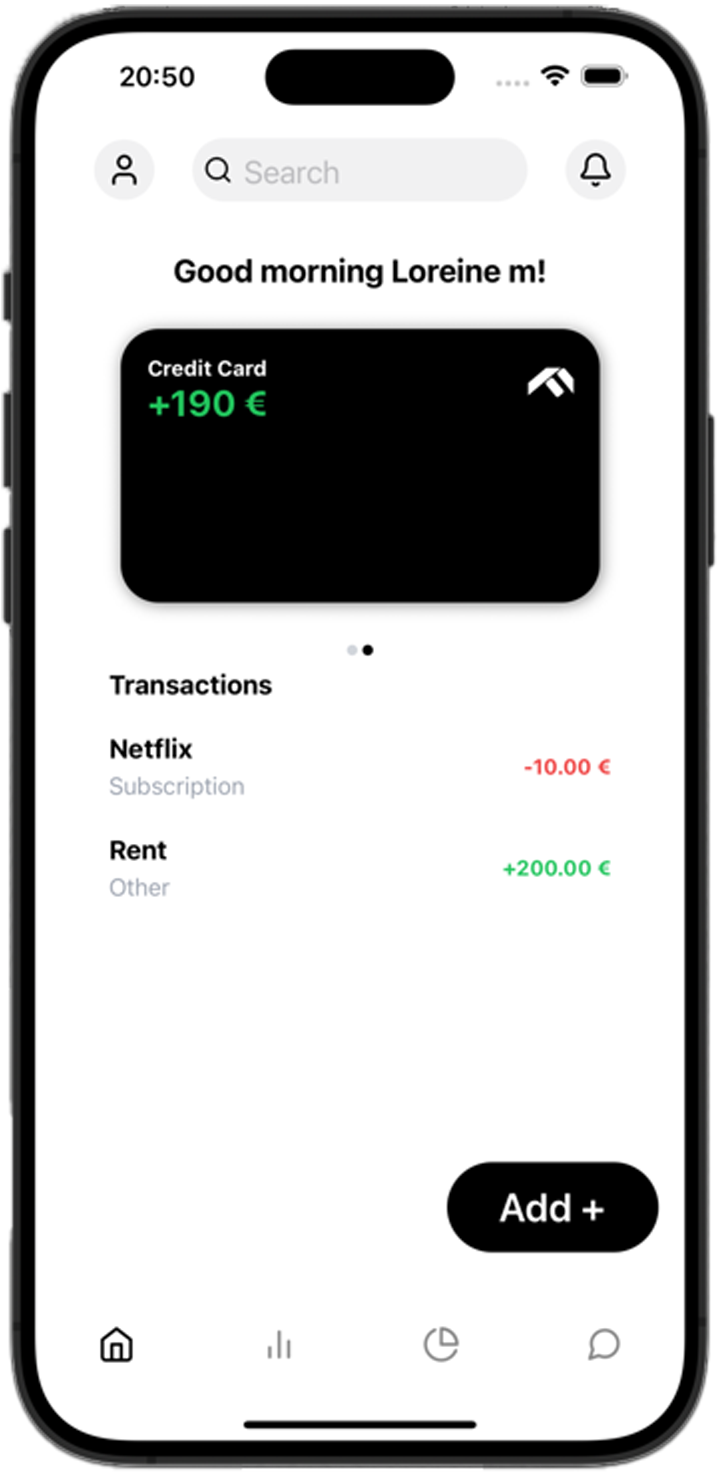
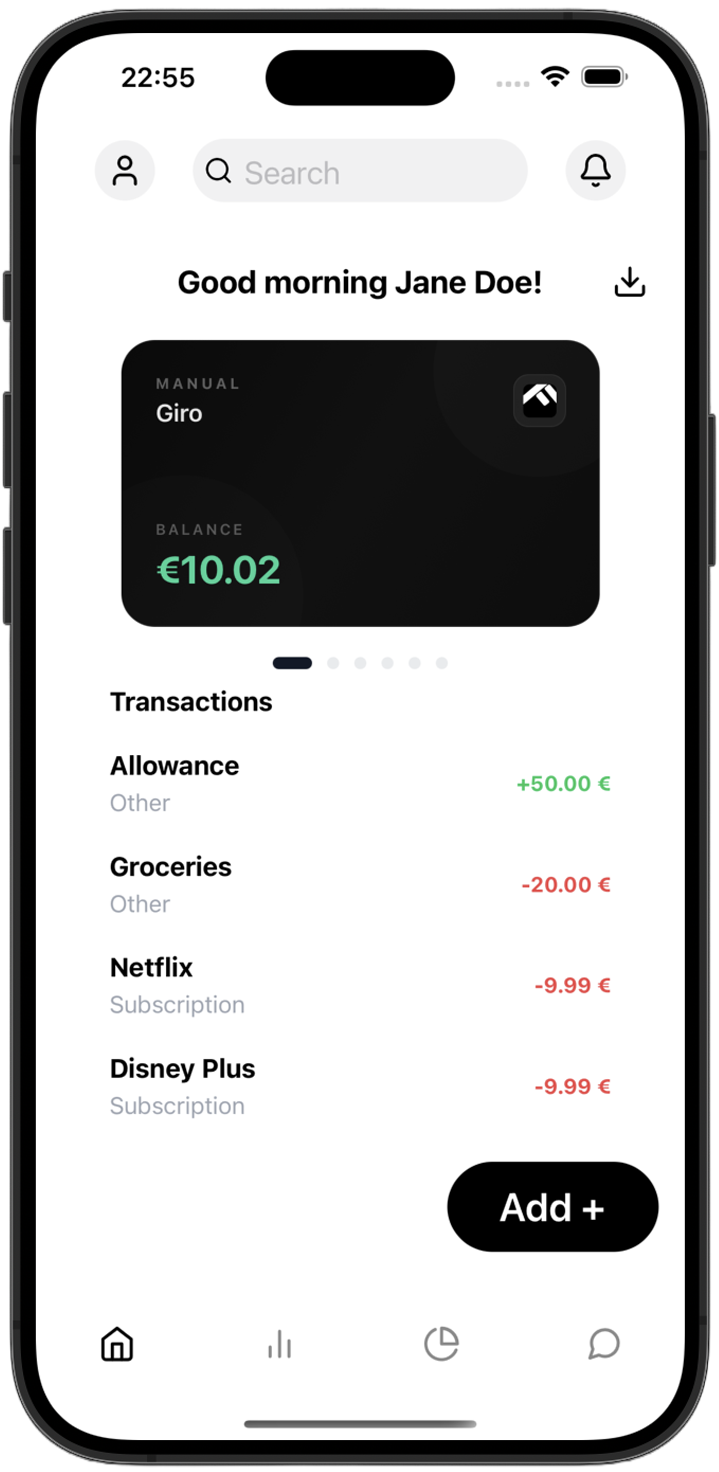
fix: gefühlt alles: website, export funktion, savingsnamen und initial amount von savings

diff --git a/mobile/components/DashBoard.tsx b/mobile/components/DashBoard.tsx
@@ -18,7 +18,10 @@ import AddAccountModal from "@/components/modals/AddAccountModal";
 import AddTransactionModal from "@/components/modals/AddTransactionModal";
 import AddSubscriptionModal from "@/components/modals/AddSubscriptionModal";
 import { useAuthStore } from "@/utils/authStore";
-import { getAccounts, getTransactions } from "@/utils/db/finance/finance";
+import { getAccounts, getTransactions, exportTransactionsToCSV } from "@/utils/db/finance/finance";
+import * as FileSystem from "expo-file-system";
+import * as Sharing from "expo-sharing";
+import { Download } from "lucide-react-native";
 import { getSubscriptions } from "@/utils/db/finance/subscriptions/subscriptions";
 import { Skeleton } from "@/components/ui/skeleton";
 import { getData } from "@/utils/db/connect_accounts/connectAccounts";
@@ -37,6 +40,7 @@ export default function DashBoard() {
   const [accountIndex, setAccountIndex] = useState(0);
   const [state, setState] = useState<STATE>(STATE.DEFAULT);
   const [expanded, setExpanded] = useState(false);
+  const [isExporting, setIsExporting] = useState(false);
 
   const [accounts, setAccounts] = useState<any[]>([]);
 
@@ -311,6 +315,26 @@ export default function DashBoard() {
 
   const [refreshing, setRefreshing] = useState(false);
 
+  const exportToCSV = async () => {
+    if (!session?.access_token) return;
+    try {
+      setIsExporting(true);
+      const csvData = await exportTransactionsToCSV(session.access_token, session.refresh_token);
+      
+      const fileUri = FileSystem.documentDirectory + "transactions_export.csv";
+      await FileSystem.writeAsStringAsync(fileUri, csvData, { encoding: FileSystem.EncodingType.UTF8 });
+      
+      const canShare = await Sharing.isAvailableAsync();
+      if (canShare) {
+        await Sharing.shareAsync(fileUri, { mimeType: "text/csv", dialogTitle: "Export Transactions" });
+      }
+    } catch (e: any) {
+      console.error("Export failed:", e);
+    } finally {
+      setIsExporting(false);
+    }
+  };
+
   const onRefresh = useCallback(async () => {
     setRefreshing(true);
     invalidateCache();
@@ -389,11 +413,16 @@ export default function DashBoard() {
           />
         }
       >
-        <View className="items-center justify-center">
-          <View className="gap-3 items-center">
-            <Text className="text-center text-2xl font-bold">
-              {`Good morning ${user?.user_metadata?.display_name || "there"}!`}
-            </Text>
+        <View className="items-center justify-center w-full">
+          <View className="gap-3 items-center w-full">
+            <View className="w-full relative justify-center items-center px-5 mt-2">
+              <Text className="text-center text-2xl font-bold">
+                {`Good morning ${user?.user_metadata?.display_name || "there"}!`}
+              </Text>
+              <TouchableOpacity onPress={exportToCSV} disabled={isExporting} className="absolute right-5 p-2">
+                <Download size={24} color={isExporting ? "gray" : "black"} />
+              </TouchableOpacity>
+            </View>
 
             {/* Accounts Carousel */}
             <View className="w-full">

diff --git a/webapp/src/app/components/team/TeamPage.jsx b/webapp/src/app/components/team/TeamPage.jsx
@@ -51,7 +51,7 @@ export default function TeamPage() {
     <div
       ref={containerRef}
       id="team"
-      className="min-h-screen flex flex-col items-center p-8 bg-white"
+      className="min-h-screen flex flex-col items-center p-4 sm:p-8 bg-white"
     >
       <motion.img
         src="/tealPhoto.png"
@@ -61,21 +61,21 @@ export default function TeamPage() {
         animate={isInView ? { opacity: 1, y: 0 } : { opacity: 0, y: -50 }}
         transition={{ duration: 0.5, ease: "easeOut" }}
       />
-      <div className="grid grid-cols-2 sm:grid-cols-4 gap-4 w-full max-w-6xl">
+      <div className="grid grid-cols-1 sm:grid-cols-2 lg:grid-cols-4 gap-4 w-full max-w-6xl">
         {members.map((member, index) => (
           <motion.div
             key={index}
-            className="flex flex-col gap-2 justify-center items-center p-6 bg-white rounded-lg shadow-md hover:cursor-pointer transition-transform duration-300"
+            className="flex flex-col gap-2 justify-center items-center p-6 bg-white rounded-lg shadow-md hover:cursor-pointer transition-transform duration-300 text-center"
             variants={cardVariants}
             initial="hidden"
             animate={isInView ? "visible" : "hidden"}
             whileHover="hover"
             custom={index}
           >
-            <span className="font-swiss font-bold text-lg text-black whitespace-nowrap">
+            <span className="font-swiss font-bold text-lg text-black">
               {member.name}
             </span>
-            <span className="text-gray-600 whitespace-nowrap">
+            <span className="text-gray-600 text-sm">
               {member.role}
             </span>
           </motion.div>

diff --git a/mobile/utils/db/finance/finance.ts b/mobile/utils/db/finance/finance.ts
@@ -104,3 +104,27 @@ export const addTransaction = async (
 
   return result;
 };
+
+export const exportTransactionsToCSV = async (
+  accessToken,
+  refreshToken,
+) => {
+  if (!accessToken) {
+    throw new Error("Missing access token");
+  }
+
+  const res = await fetch(`${BASE_URL}/finance/transactions/export/csv`, {
+    method: "GET",
+    headers: {
+      Authorization: `Bearer ${accessToken}`,
+      "x-refresh-token": refreshToken,
+    },
+  });
+
+  if (!res.ok) {
+    const error = await res.json().catch(() => ({}));
+    throw new Error(error.detail || "Failed to export transactions");
+  }
+
+  return res.text();
+};

diff --git a/backend/app/routers/finance/transactions/transactions.py b/backend/app/routers/finance/transactions/transactions.py
@@ -1,7 +1,10 @@
 from datetime import datetime
 from typing import Optional
+import csv
+import io
 
 from fastapi import APIRouter, Depends, HTTPException
+from fastapi.responses import Response
 from pydantic import BaseModel
 from starlette import status
 
@@ -56,6 +59,116 @@ async def add_transactions(
         raise
     except Exception as e:
         raise HTTPException(status_code=400, detail=f"Add transaction failed: {e}")
+
+
+@router.get("/export/csv", status_code=status.HTTP_200_OK)
+async def export_transactions_csv(
+    supabase=Depends(get_supabase),
+    tokens=Depends(get_user_token),
+):
+    try:
+        access = tokens.get("access_token")
+        refresh = tokens.get("refresh_token")
+
+        supabase.auth.set_session(access, refresh)
+
+        user_resp = supabase.auth.get_user()
+        user = user_resp.user
+
+        if not user:
+            raise HTTPException(status_code=401, detail="Unauthorized: No valid session")
+
+        # 1. Fetch all accounts for user
+        accounts_response = (
+            supabase.schema("finance")
+            .table("accounts")
+            .select("id, name, currency")
+            .eq("user_id", user.id)
+            .execute()
+        )
+        accounts = accounts_response.data or []
+        account_map = {acc["id"]: acc for acc in accounts}
+        account_ids = list(account_map.keys())
+
+        # 2. Fetch all transactions for those accounts
+        transactions = []
+        subscriptions = []
+        if account_ids:
+            transactions_response = (
+                supabase.schema("finance")
+                .table("transactions")
+                .select("*")
+                .in_("account_id", account_ids)
+                .order("txn_date", desc=True)
+                .execute()
+            )
+            transactions = transactions_response.data or []
+
+            # Fetch subscriptions
+            subscriptions_response = (
+                supabase.schema("finance")
+                .table("subscriptions")
+                .select("*")
+                .in_("account_id", account_ids)
+                .execute()
+            )
+            subscriptions = subscriptions_response.data or []
+
+        # 3. Create CSV string
+        output = io.StringIO()
+        writer = csv.writer(output)
+        
+        writer.writerow([
+            "Account Name",
+            "Account Currency",
+            "Date",
+            "Description",
+            "Merchant",
+            "Category",
+            "Amount (Minor)",
+            "Currency",
+            "Type"
+        ])
+
+        for txn in transactions:
+            acc = account_map.get(txn.get("account_id"), {})
+            writer.writerow([
+                acc.get("name", "Unknown Account"),
+                acc.get("currency", ""),
+                txn.get("txn_date", ""),
+                txn.get("description", ""),
+                txn.get("merchant", ""),
+                txn.get("category_id", ""),
+                txn.get("amount_minor", 0),
+                txn.get("currency", ""),
+                txn.get("type", "")
+            ])
+
+        for sub in subscriptions:
+            acc = account_map.get(sub.get("account_id"), {})
+            writer.writerow([
+                acc.get("name", "Unknown Account"),
+                acc.get("currency", ""),
+                sub.get("start_date", ""),
+                f"Subscription ({sub.get('every_n', 1)} {sub.get('unit', 'month')})",
+                sub.get("merchant", ""),
+                sub.get("category_id", ""),
+                -abs(int(sub.get("amount_minor", 0))), # Subscriptions are typically expenses
+                sub.get("currency", ""),
+                "subscription"
+            ])
+
+        return Response(
+            content=output.getvalue(),
+            media_type="text/csv",
+            headers={"Content-Disposition": 'attachment; filename="transactions_export.csv"'}
+        )
+
+    except HTTPException:
+        raise
+    except Exception as e:
+        raise HTTPException(status_code=400, detail=f"Export CSV failed: {e}")
+
 
 
 @router.get("/{account_id}", status_code=status.HTTP_200_OK)

diff --git a/backend/app/routers/finance/saving_goals/saving_goals.py b/backend/app/routers/finance/saving_goals/saving_goals.py
@@ -15,6 +15,7 @@ class SavingGoalRequest(BaseModel):
     name: str
     target_minor: int
     currency: str
+    contributed_minor: int | None = None
 
 @router.get("/")
 async def get_saving_goals(
@@ -74,6 +75,8 @@ async def add_saving_goal(
             raise HTTPException(status_code=401, detail="Unauthorized: No valid session")
 
         payload = request.model_dump(exclude_none=True)
+        contributed_minor = payload.pop("contributed_minor", 0)
+
         response = (
             supabase.schema("finance")
             .table("saving_goals")
@@ -85,6 +88,22 @@ async def add_saving_goal(
             )
             .execute()
         )
+
+        if response.data and contributed_minor > 0:
+            goal_id = response.data[0]["id"]
+            (
+                supabase.schema("finance")
+                .table("saving_contributions")
+                .insert(
+                    {
+                        "goal_id": goal_id,
+                        "contributed_minor": contributed_minor,
+                        "description": "Initial balance",
+                        "contributed_at": str(datetime.now()),
+                    }
+                )
+                .execute()
+            )
 
         return {"user": user.model_dump(), "rows": response.data}
 
